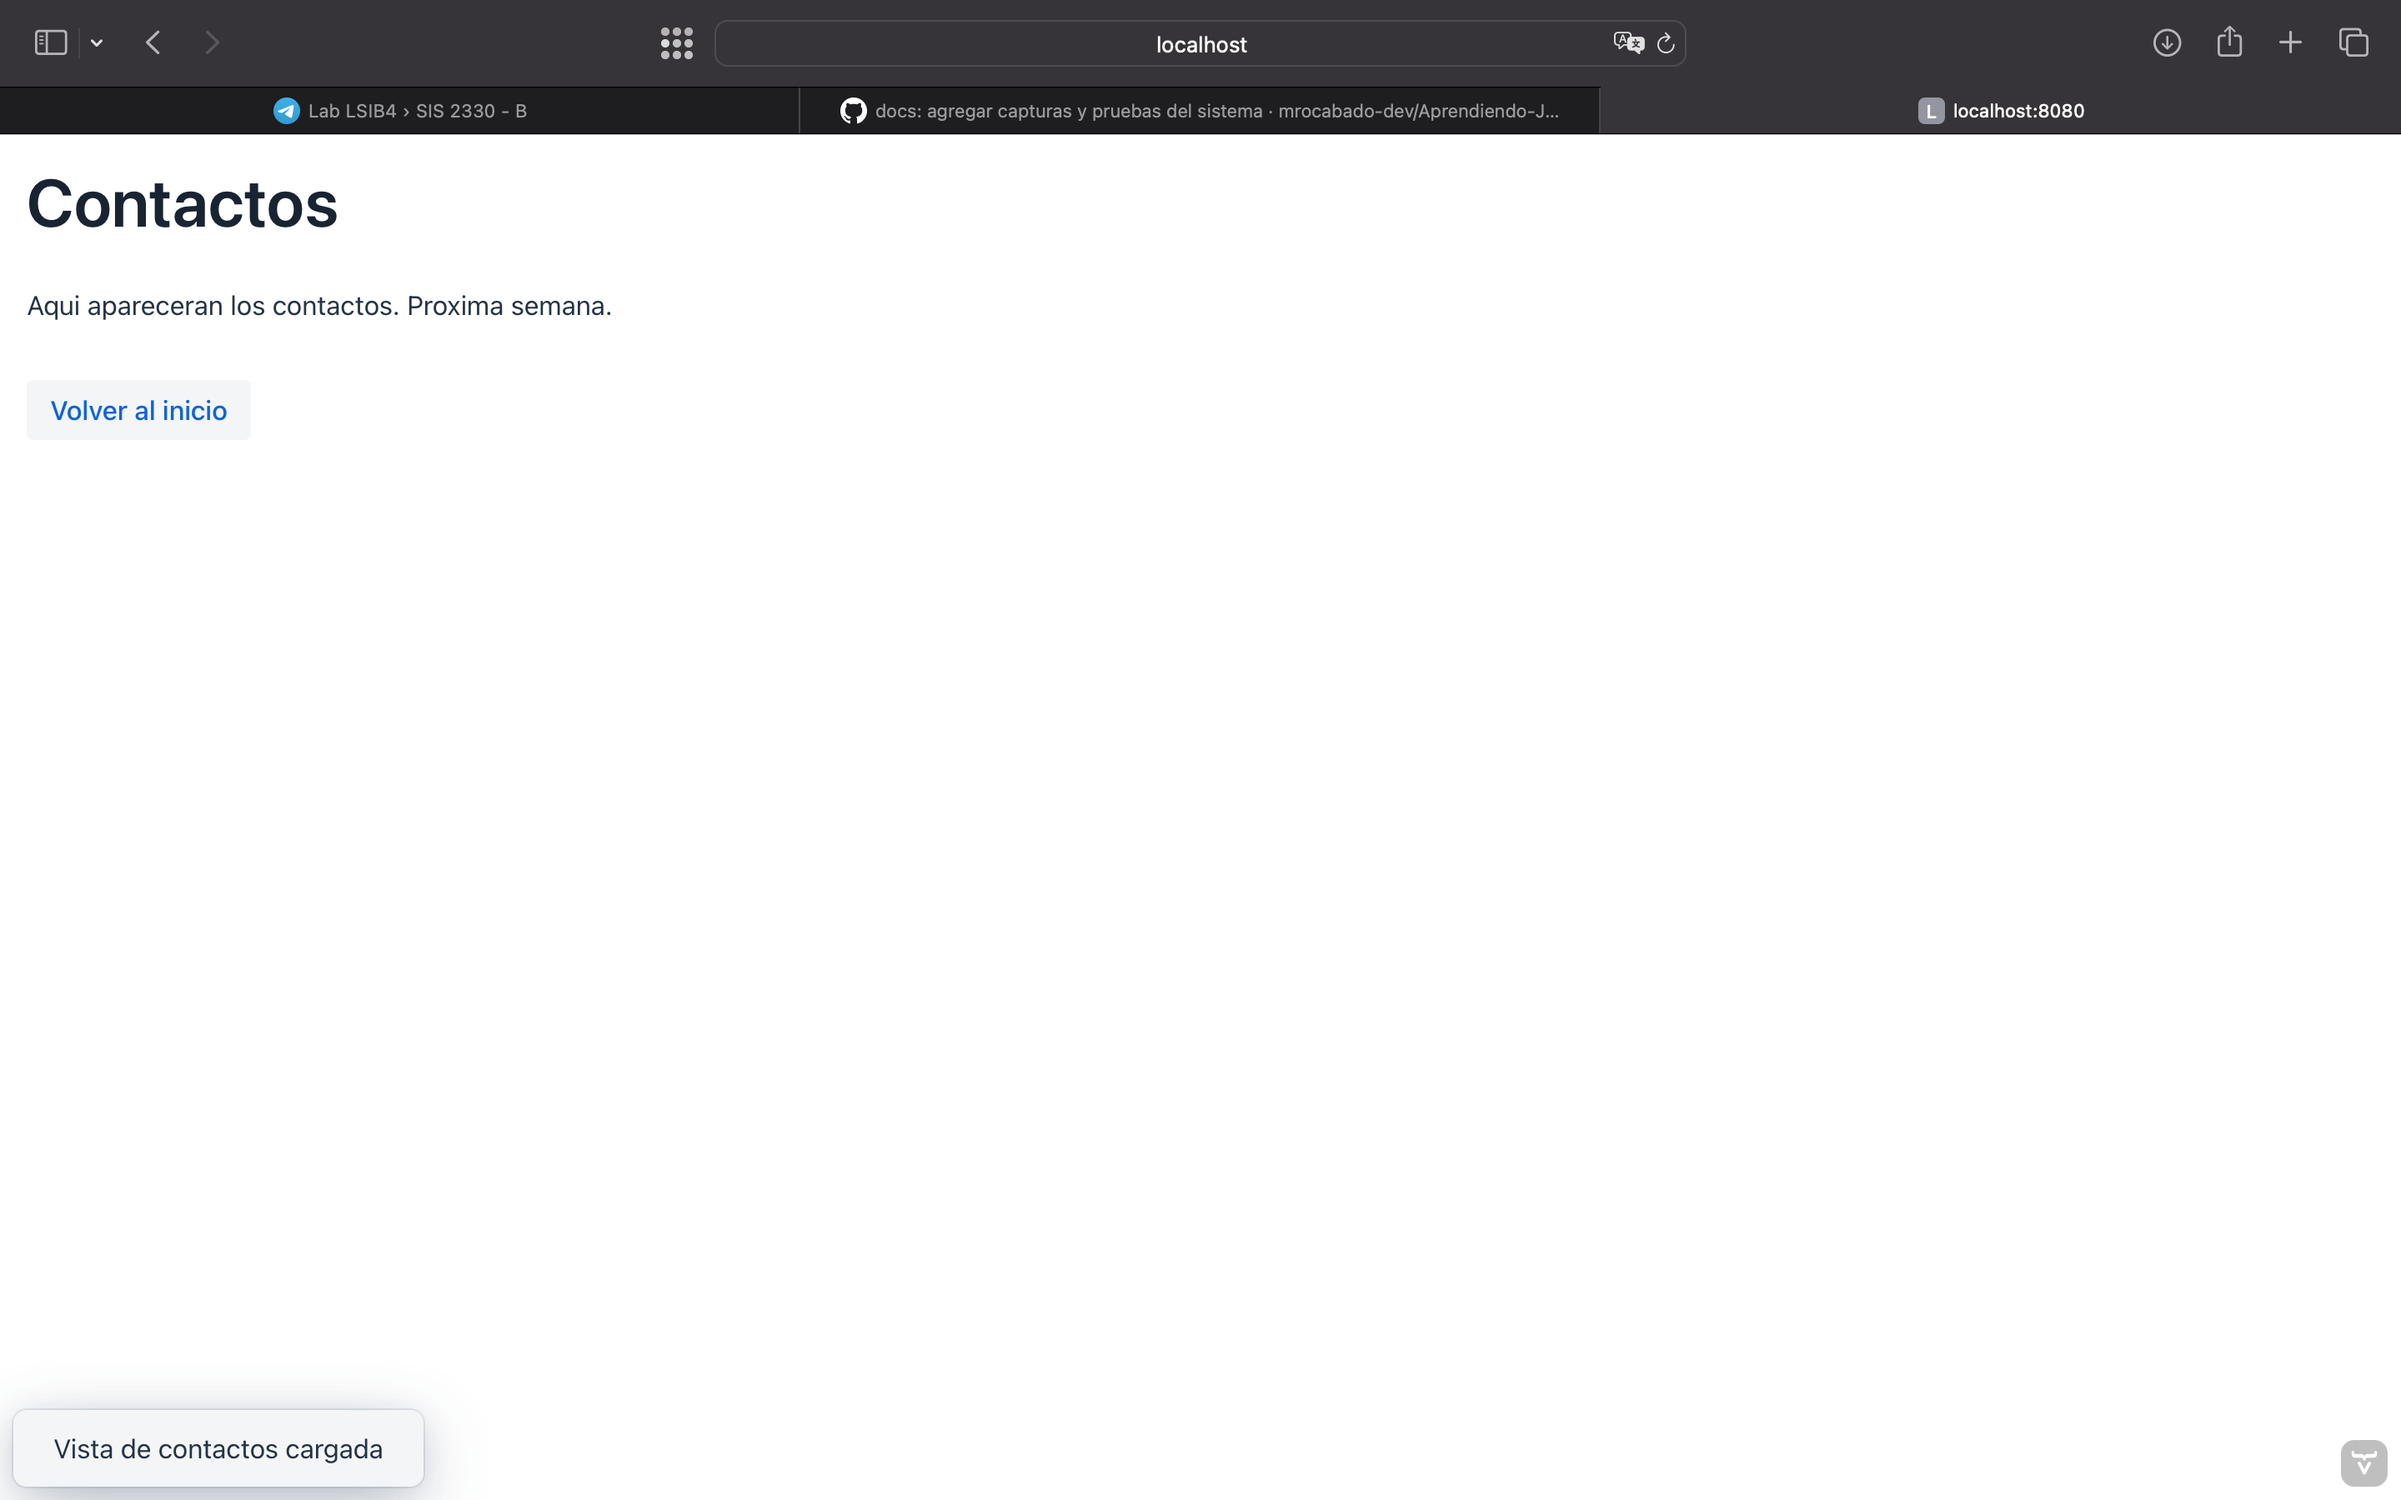
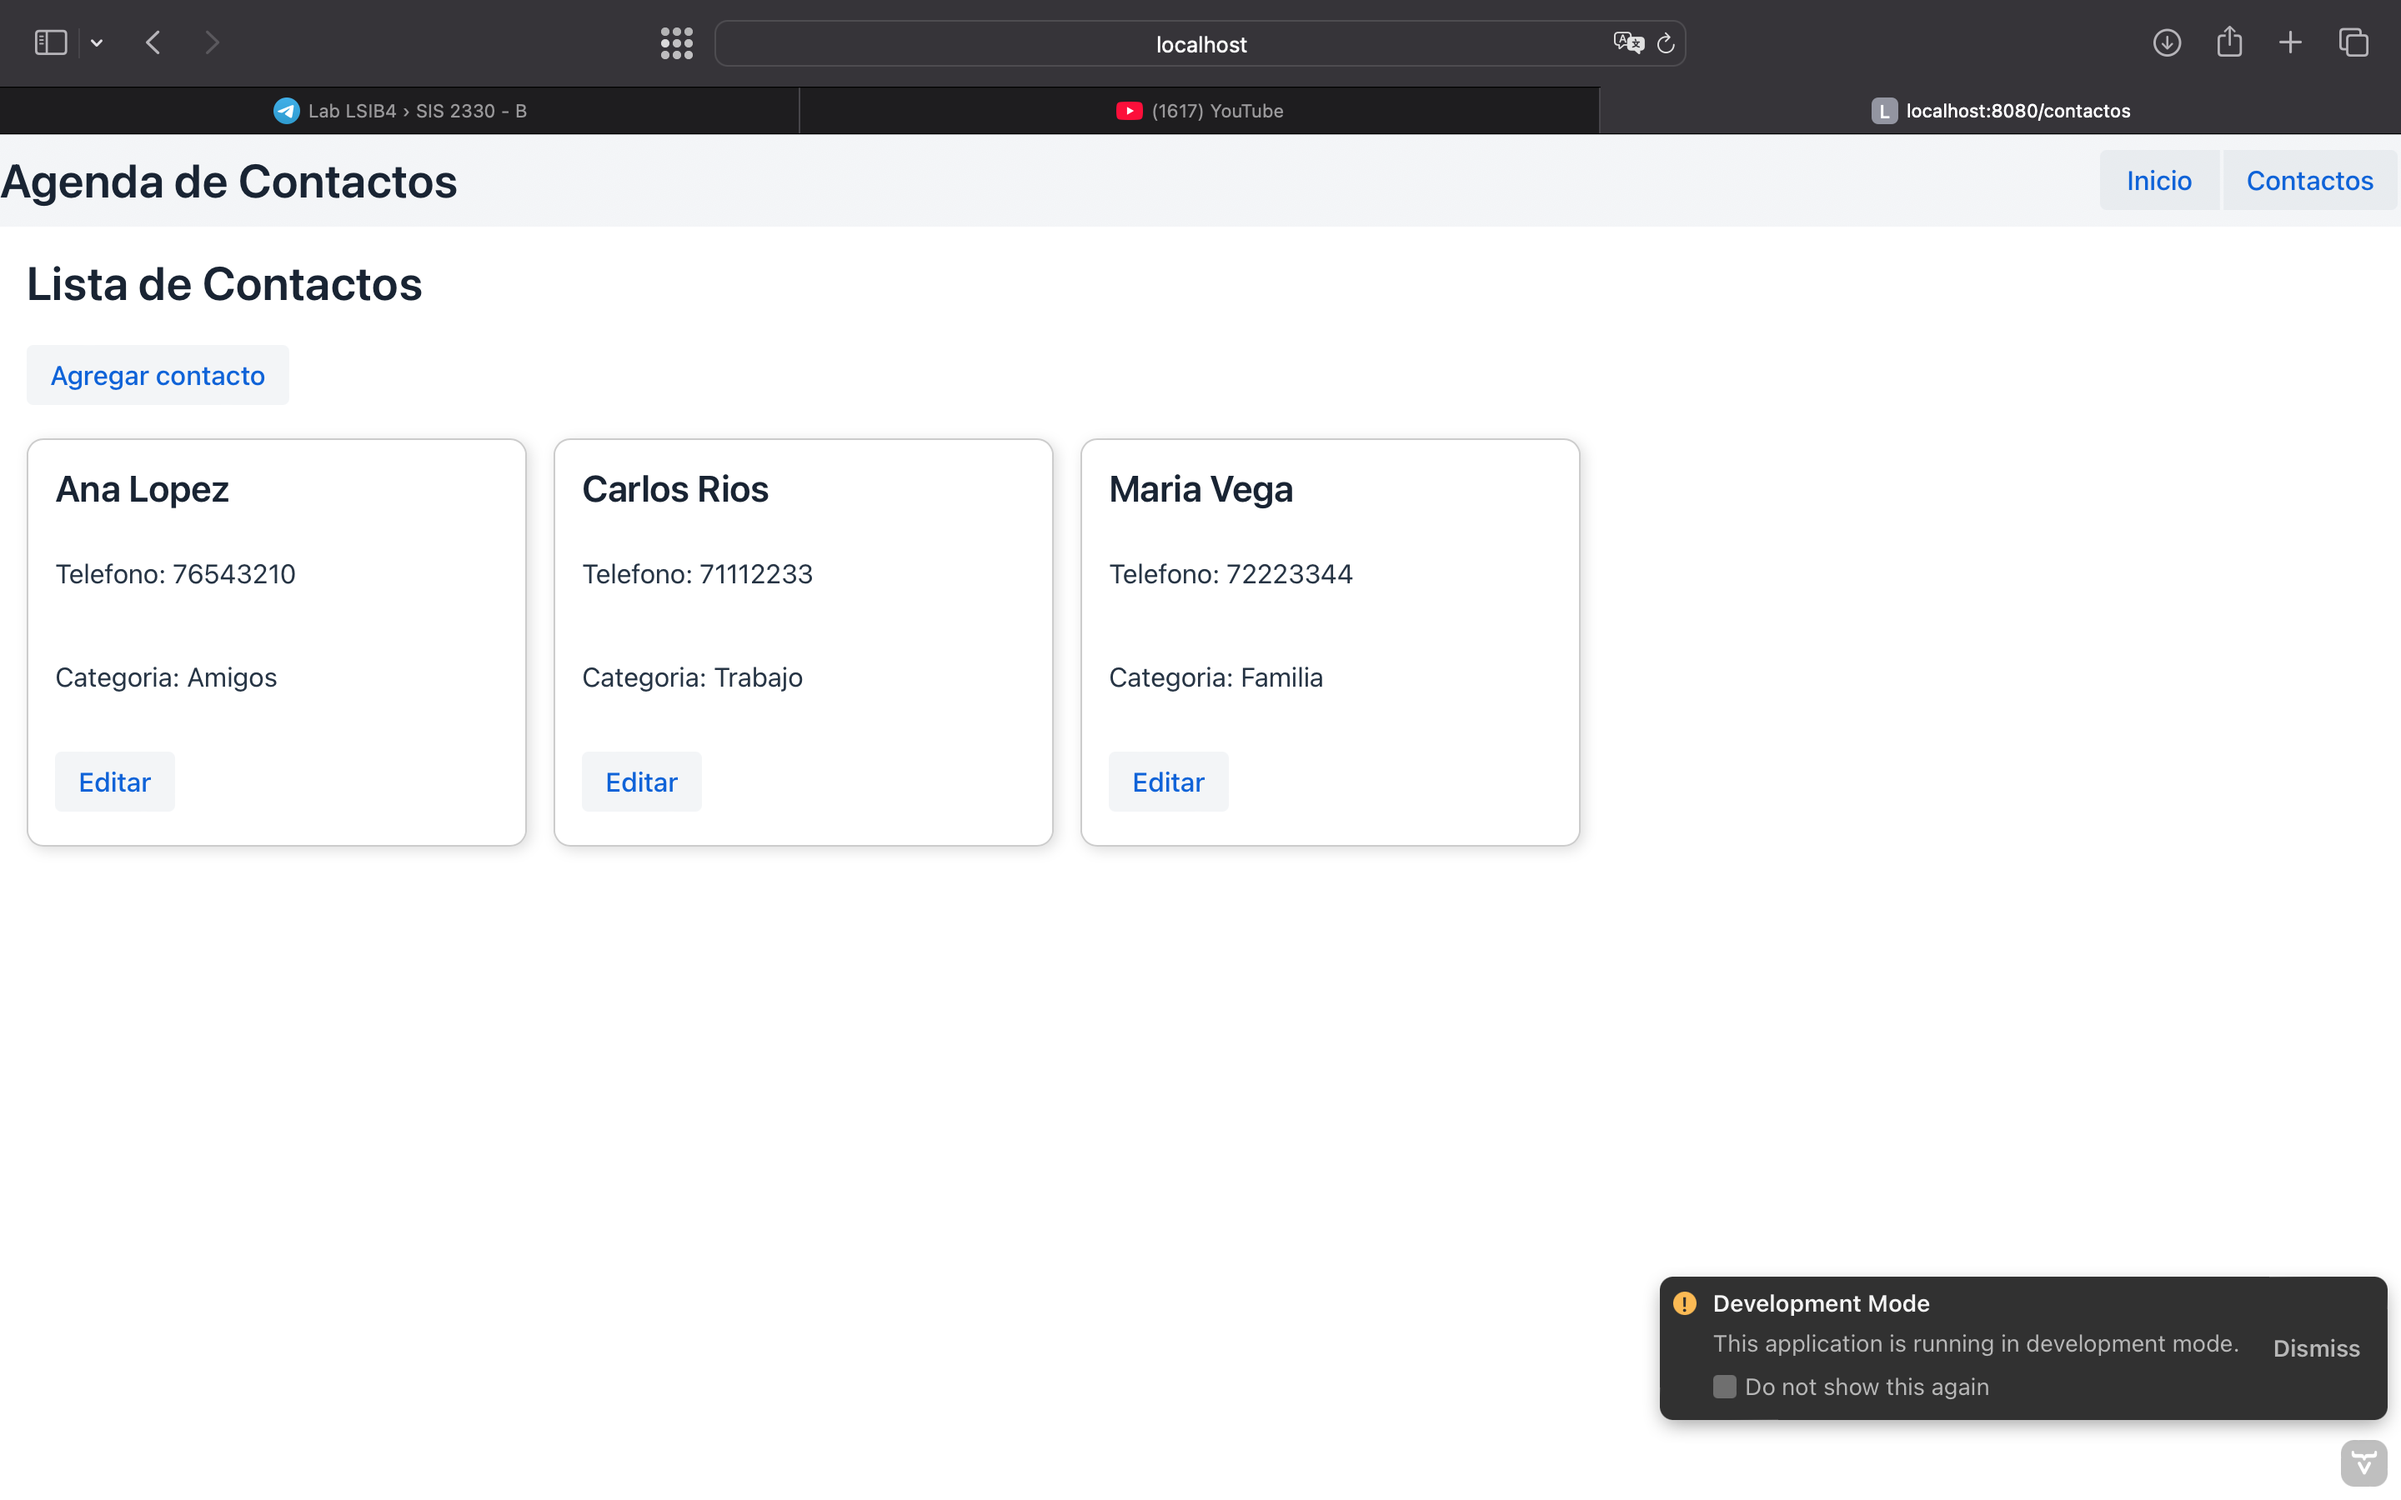
Capturas de pantalla

diff --git a/semana-08-agenda-web/src/main/java/com/organizacion/agenda/Application.java b/semana-08-agenda-web/src/main/java/com/organizacion/agenda/Application.java
@@ -1,4 +1,4 @@
-package com.organizacion.agenda;
+package com.organizacion.app;
 
 import org.springframework.boot.SpringApplication;
 
